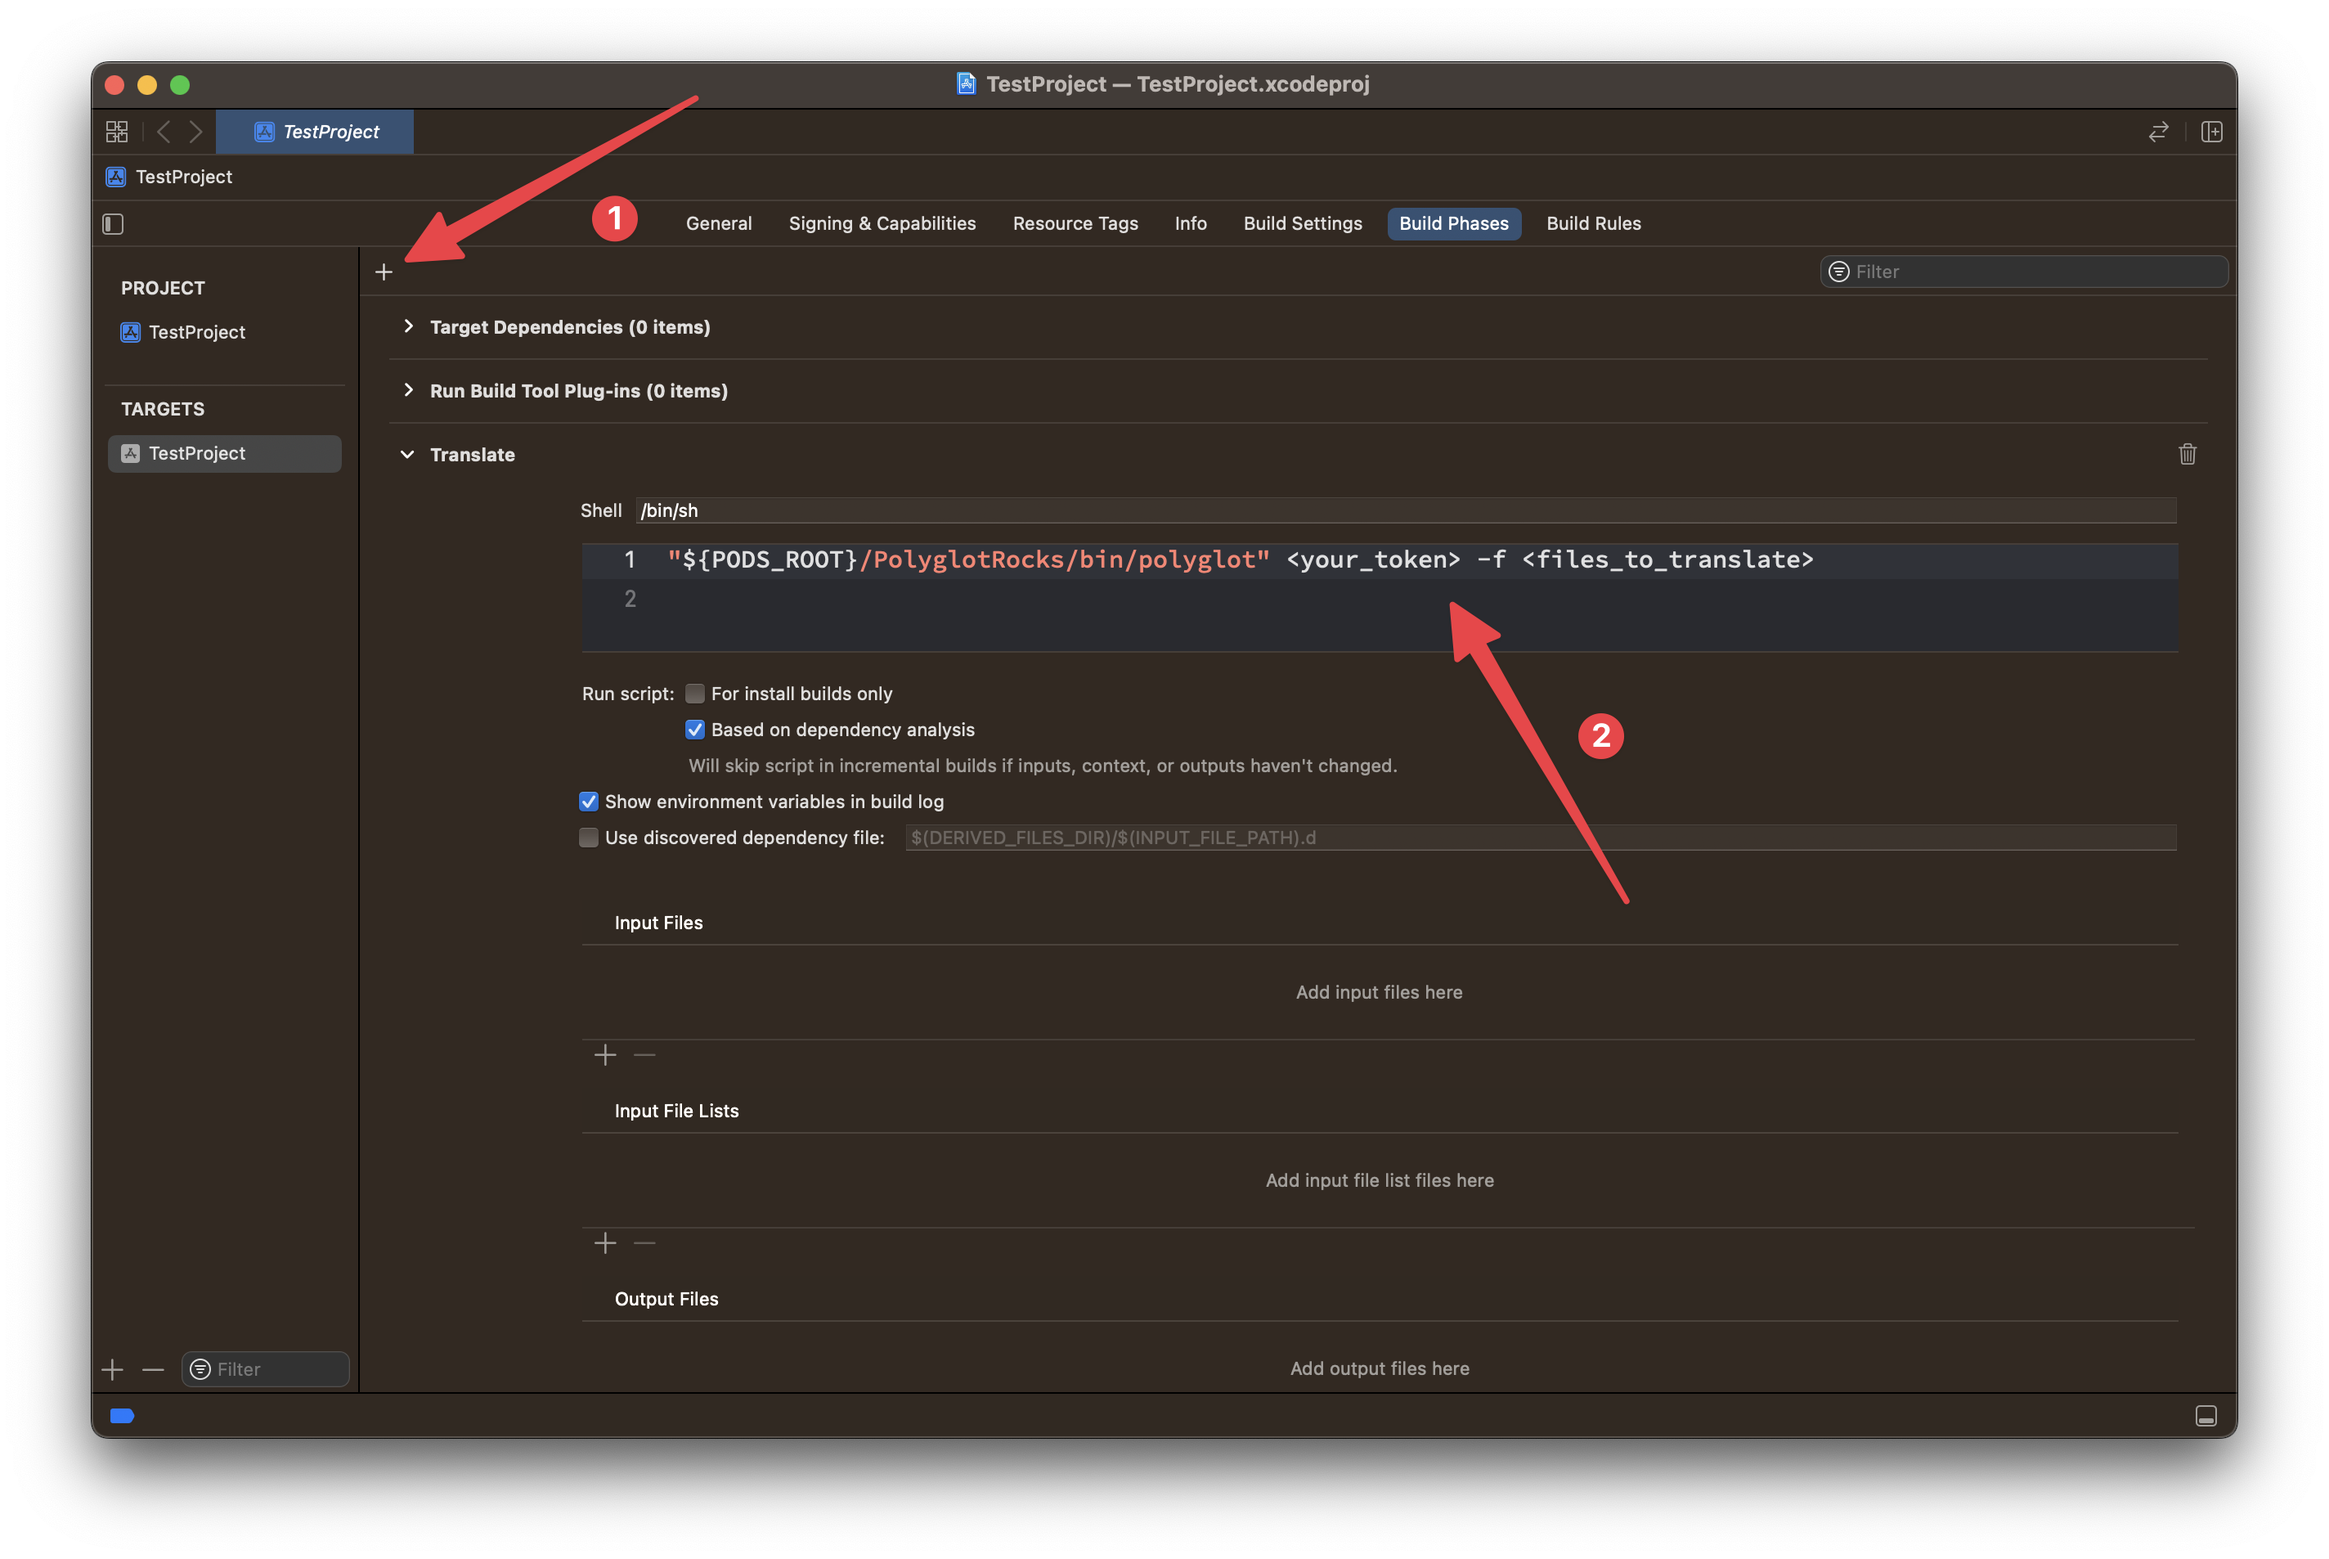
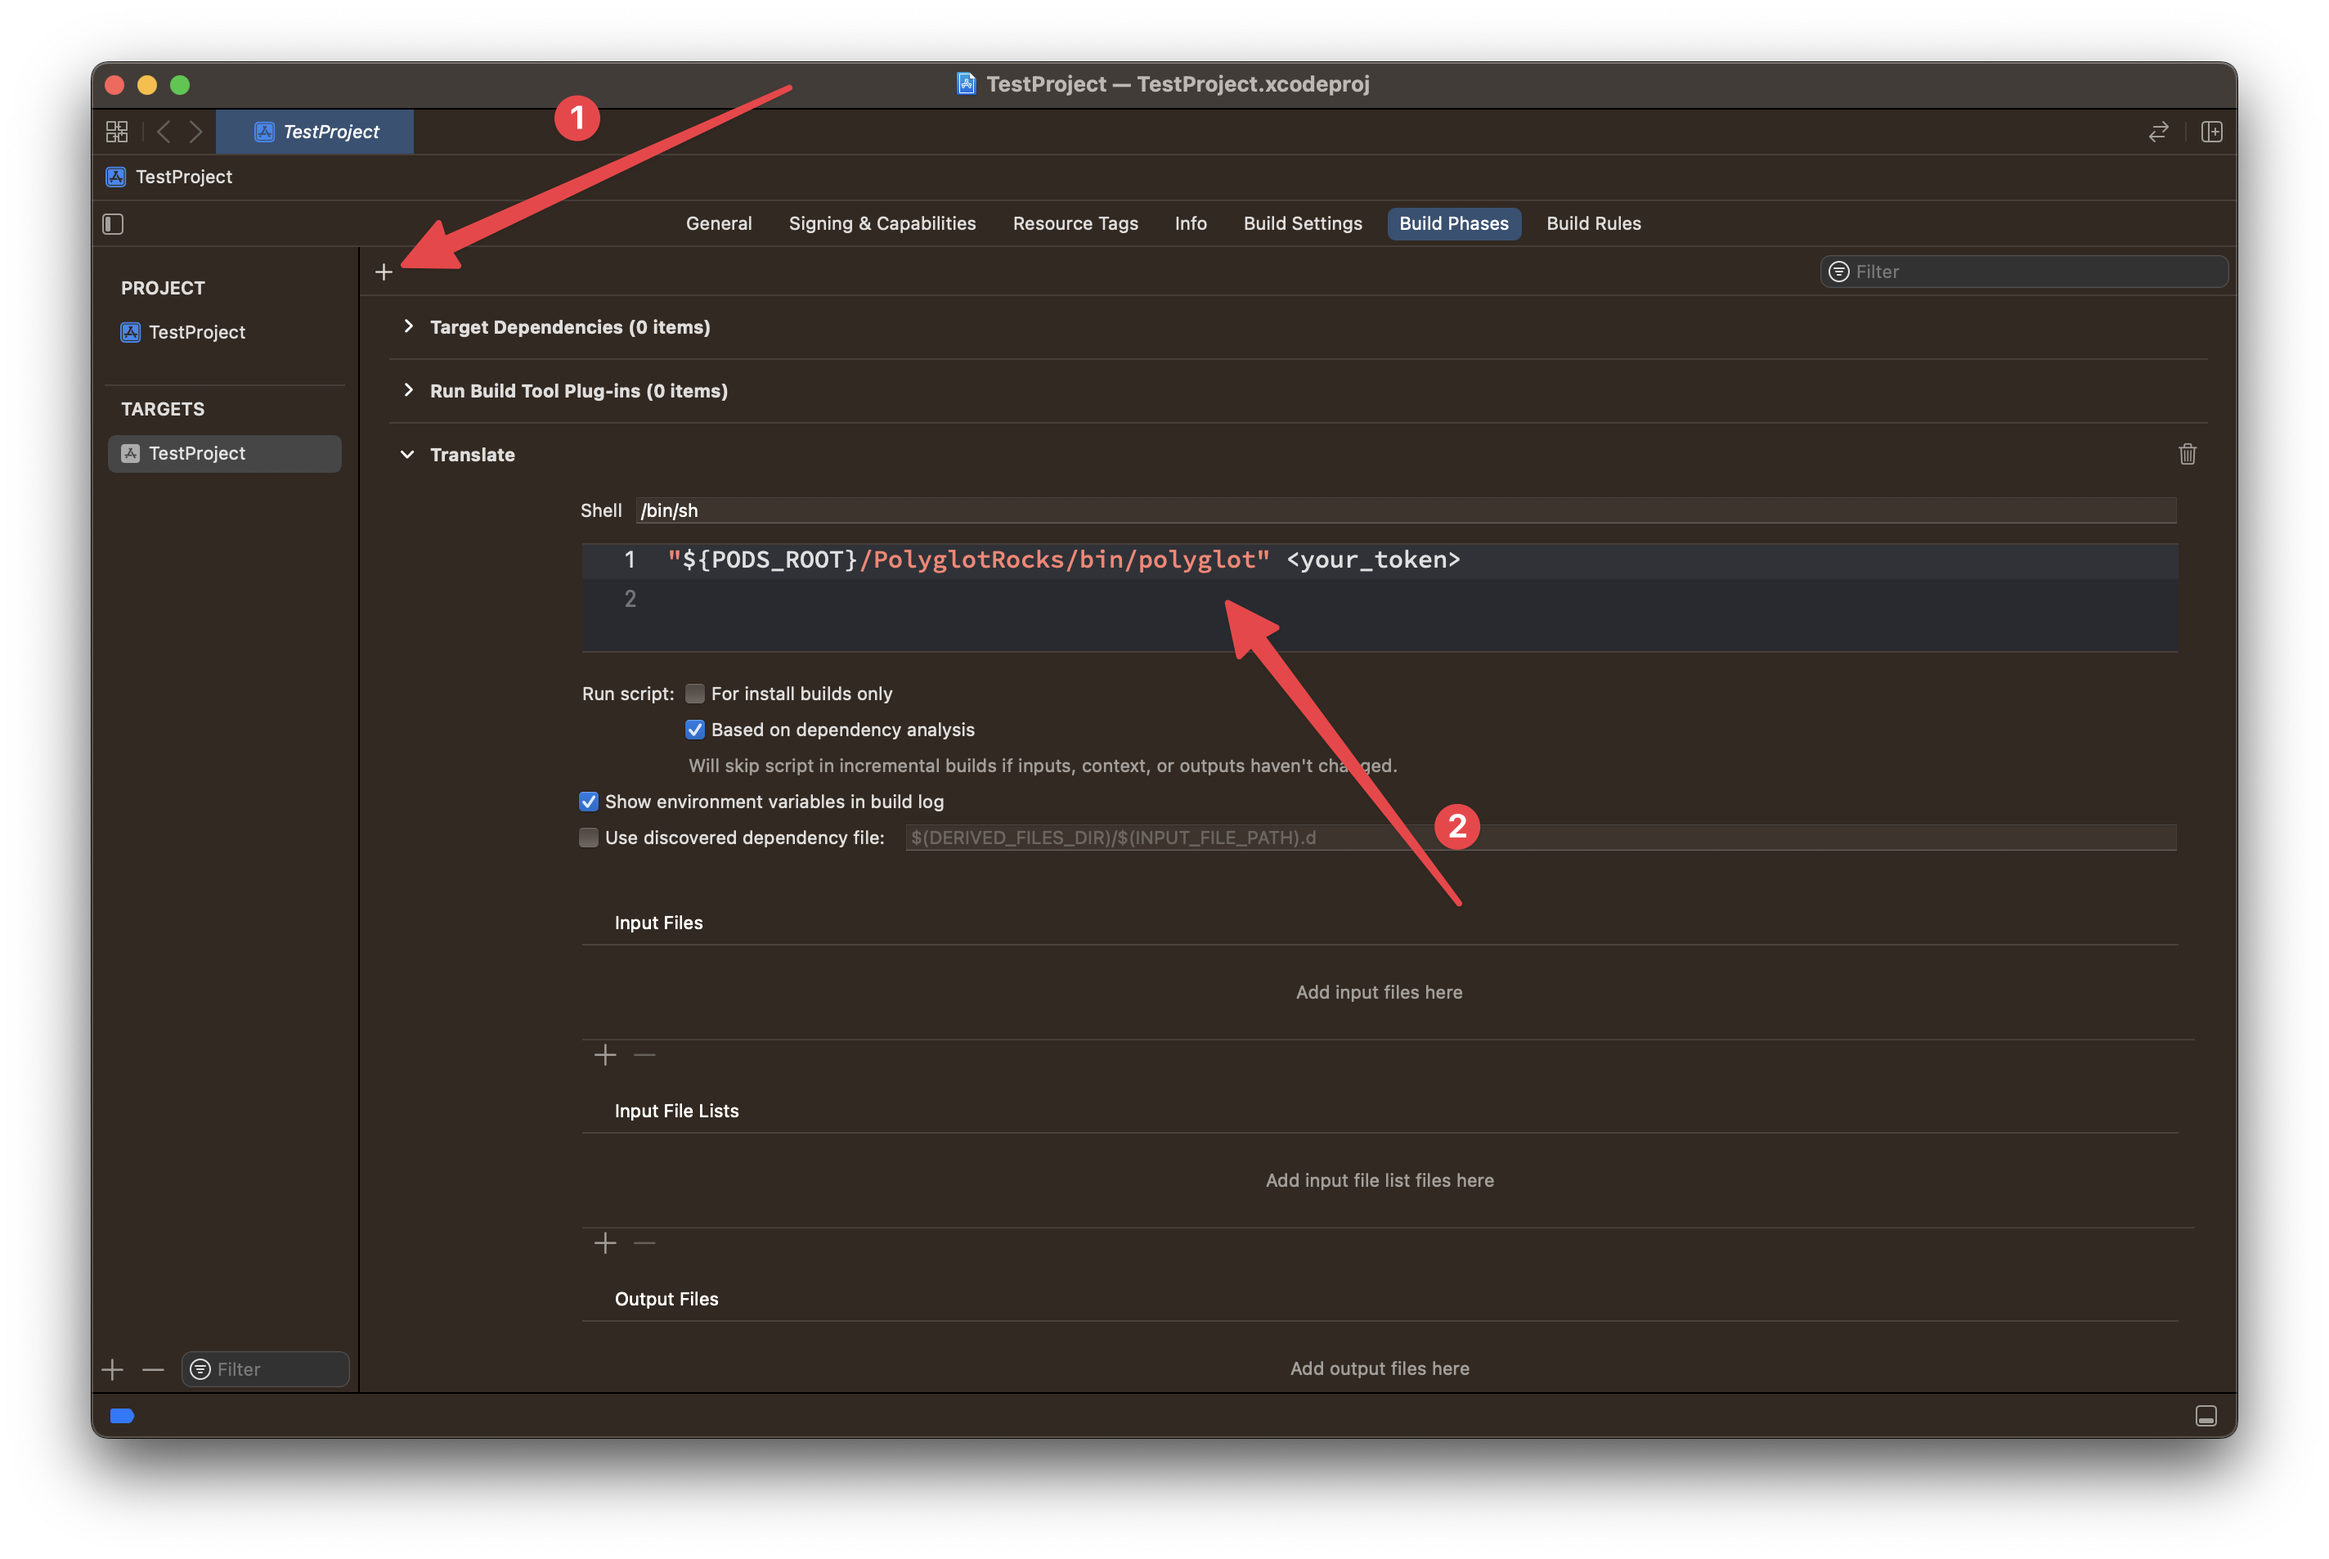
chore: update readme

diff --git a/README.md b/README.md
@@ -24,7 +24,7 @@ The tool uses English localization as the basis for translations.
   - [Support](#support)
     - [How do I add a new localization?](#how-do-i-add-a-new-localization)
     - [In which file do I need to write strings for translation?](#in-which-file-do-i-need-to-write-strings-for-translation)
-    - [What is the difference between Base and English localizations?](#what-is-the-difference-between-base-and-english-localizations)
+    - [Should I use Base localization or English?](#should-i-use-base-localization-or-english)
     - [Should I commit translations to the git history?](#should-i-commit-translations-to-the-git-history)
     - [How I stop Polyglot from translating specific strings?](#how-i-stop-polyglot-from-translating-specific-strings)
     - [How to add manual translations independently?](#how-to-add-manual-translations-independently)
@@ -58,22 +58,34 @@ Then, run `pod install` to install the library.
 To use Polyglot in your Xcode project, add the following command to the build phase:
 
 ```plain
-"${PODS_ROOT}/PolyglotRocks/bin/polyglot" <your_token> -f <files_to_translate>
+"${PODS_ROOT}/PolyglotRocks/bin/polyglot" <your_token>
 ```
 
 ![Pods](.images/pods.png)
+
+Optionally, you can set the `-f` parameter to specify the file names for translation (see [vocabulary](#vocabulary) for more details):
+
+```bash
+"${PODS_ROOT}/PolyglotRocks/bin/polyglot" <your_token> -f <files_to_translate>
+```
 
 ### Option 2. cURL (Xcode)
 
 To run Polyglot on your local machine with Xcode, you can use a special script via cURL. To do this, add the following code to a build phase in your Xcode project:
 
 ```bash
-/bin/bash -c "$(curl -fsSL https://polyglot.rocks/run.sh)" - <your_token> -f <files_to_translate>
+/bin/bash -c "$(curl -fsSL https://polyglot.rocks/run.sh)" - <your_token>
 ```
 
 This script will download the latest version of Polyglot if needed and then will execute it at every build of your project using Xcode.
 
 ![cURL (Xcode)](.images/curl_xcode.png)
+
+Optionally, you can set the `-f` parameter to specify the file names for translation (see [vocabulary](#vocabulary) for more details):
+
+```bash
+/bin/bash -c "$(curl -fsSL https://polyglot.rocks/run.sh)" - <your_token> -f <files_to_translate>
+```
 
 ### Option 3. cURL (Manually)
 
@@ -211,13 +223,9 @@ PolyglotRocks for translation takes as a basis the lines that are written in the
 
 Since the tool uses English localization as the basis for translations, you can initially keep other localization files empty, and it will fill them in by itself.
 
-### What is the difference between Base and English localizations?
+### Should I use Base localization or English?
 
-Base Internationalization is a feature in Xcode that allows developers to create a default set of resources (such as interface files, images, and strings) that are independent of any specific language or region. These resources are then localized based on the selected language and region.
-
-If a developer uses Base Internationalization, then the "Base" localization refers to the default set of resources that are independent of any specific language or region and the "English" localization would refer to the English translation of these resources.
-
-When using PolyglotRocks, it will use only the "English" localization file as the source for translations into other languages.
+PolyglotRocks **considers only** the "English" localization (`en.lproj`) as the source for translations into other languages. Hence, the content of `Base.lproj` is ignored by the tool.
 
 ### Should I commit translations to the git history?
 
